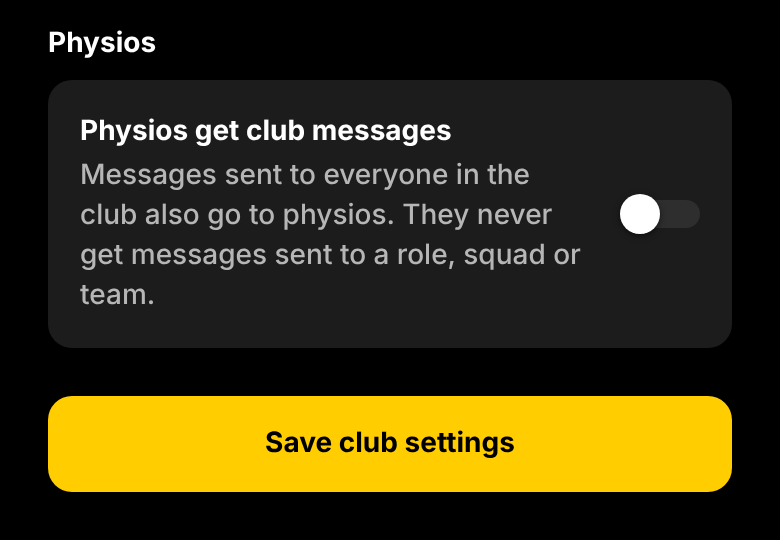
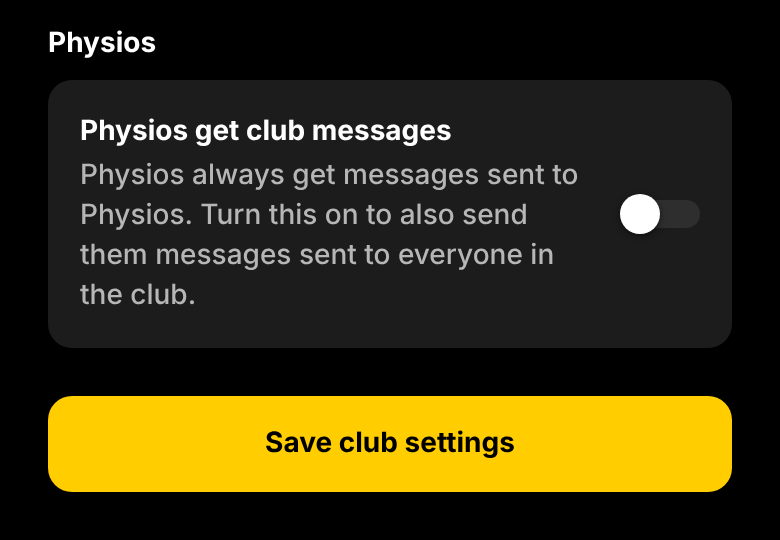
Physios get messages sent to the Physio role
Physios are a role, so admins can now message them as one. Messages to
the whole club still reach physios only when the Club settings switch
is on. Guests still get no messages.

Claude-Session: https://claude.ai/code/session_01Mh6TzPEn2NakBsFykKGtvu

Changed region(s): [[0.0923, 0.2963, 0.7385, 0.4148], [0.0923, 0.4444, 0.7385, 0.5037], [0.0923, 0.5333, 0.2462, 0.563]]

diff --git a/src/lib/messages.ts b/src/lib/messages.ts
@@ -43,25 +43,13 @@ export function useMessageGroups(teams: Team[]) {
 }
 
 /**
- * Guests never get messages. Physios get messages to the whole club only when
- * an admin turns that on. The database applies the same rules.
+ * Guests never get messages. Physios always get messages sent to the Physio
+ * role, and messages to the whole club when an admin turns that on. The
+ * database applies the same rules.
  */
 export function useGetsMessages() {
   const { profile } = useAuth();
-  const [physiosGetClubMessages, setPhysiosGetClubMessages] = useState(false);
-  const isPhysio = profile?.status === 'approved' && profile.role === 'physio';
-
-  useFocusEffect(
-    useCallback(() => {
-      if (!isPhysio) return;
-      supabase
-        .rpc('physios_get_club_messages')
-        .then(({ data }) => setPhysiosGetClubMessages(data === true));
-    }, [isPhysio]),
-  );
-
-  if (profile?.status !== 'approved' || profile.role === 'guest') return false;
-  return !isPhysio || physiosGetClubMessages;
+  return profile?.status === 'approved' && profile.role !== 'guest';
 }
 
 /** Admins, the committee, coaches and managers can send messages. */

diff --git a/src/app/admin/club.tsx b/src/app/admin/club.tsx
@@ -330,8 +330,8 @@ export default function ClubSettingsScreen() {
           <View style={styles.featureText}>
             <ThemedText type="smallBold">Physios get club messages</ThemedText>
             <ThemedText type="small" themeColor="textSecondary">
-              Messages sent to everyone in the club also go to physios. They never get messages
-              sent to a role, squad or team.
+              Physios always get messages sent to Physios. Turn this on to also send them
+              messages sent to everyone in the club.
             </ThemedText>
           </View>
           <Switch

diff --git a/src/app/messages/new.tsx b/src/app/messages/new.tsx
@@ -22,6 +22,7 @@ const messageableRoles: AppRole[] = [
   'coach',
   'manager',
   'committee',
+  'physio',
   'admin',
 ];
 

diff --git a/docs/user-guide.md b/docs/user-guide.md
@@ -49,7 +49,7 @@ What each role sees on its home screen:
 | Feature                                | Athlete |     Guardian    |    Coach     |  Manager   |   Committee   |     Physio    |  Guest  |     Admin     |
 | -------------------------------------- | :-----: | :-------------: | :----------: | :--------: | :-----------: | :-----------: | :-----: | :-----------: |
 | To-do list, calendar, squads and teams |    ✓    |        ✓        |      ✓       |     ✓      |       ✓       |       ✓       |    ✓    |       ✓       |
-| Read messages                          |    ✓    |        ✓        |      ✓       |     ✓      |       ✓       |   Club only*  |         |       ✓       |
+| Read messages                          |    ✓    |        ✓        |      ✓       |     ✓      |       ✓       |       ✓*      |         |       ✓       |
 | Send messages                          |         |                 |  Own groups  | Own groups |   Whole club  |               |         |     Anyone    |
 | Daily check-in                         |    ✓    |                 |              |            |               |               |         |               |
 | Check-ins of others                    |         |                 | Own athletes |            | Averages only | Averages only |         | Averages only |
@@ -64,7 +64,8 @@ What each role sees on its home screen:
 | Club name, colours, logo and features  |         |                 |              |            |               |               |         |       ✓       |
 | Administration                         |         |                 |              |            |               |               |         |       ✓       |
 
-\* Only when an admin turns on **Physios get club messages** in Club settings.
+\* Physios get messages sent to the Physio role. They get messages sent to everyone in the club only
+when an admin turns on **Physios get club messages** in Club settings.
 
 "Own groups" and "own athletes" mean the squads and teams you're listed in as a coach or manager.
 Club awards are voted on by the roles, squads and teams each award names, so not every award is
@@ -157,8 +158,8 @@ sender can see that you've read it.
 Who a message went to is shown under the sender's name, for example "To Mixed Open Squad" or
 "To Everyone in the club".
 
-Guests don't get messages. Physios get messages sent to everyone in the club only when an admin
-turns that on.
+Guests don't get messages. Physios get messages sent to the Physio role, and messages sent to
+everyone in the club only when an admin turns that on.
 
 <img src="user-guide/inbox.png" width="210" alt="Messages inbox">
 
@@ -501,9 +502,9 @@ Calendars an admin shares with the **Committee** appear only for committee membe
 ## 9. Physios and guests
 
 Physios and guests see the squads and teams and the club calendar. They don't vote in club awards,
-so their home screen has no **Awards** card. Guests don't get messages. Physios get messages sent to
-everyone in the club only when an admin turns on **Physios get club messages** in
-[Club settings](#club-settings); then their home screen shows a **Messages** card.
+so their home screen has no **Awards** card. Guests don't get messages. Physios have a **Messages**
+card and get messages an admin sends to the Physio role. They also get messages sent to everyone in
+the club when an admin turns on **Physios get club messages** in [Club settings](#club-settings).
 
 ### Physios
 
@@ -732,7 +733,7 @@ defaults (West Coast Thunder's name, logo and yellow-on-black colours).
   and its Administration pages are hidden. Nothing is deleted, so switching it back on brings
   everything back.
 - **Physios get club messages**: when on, messages sent to everyone in the club also go to
-  physios. They never get messages sent to a role, squad or team. It starts off.
+  physios. Physios always get messages sent to the Physio role. It starts off.
 
 Tap **Save club settings**. Members see the changes the next time they open the app. The app's
 icon, its name under the icon and the splash screen are part of the app build and don't change
@@ -758,7 +759,7 @@ once saved, only replaced or removed.
 | ----------------------- | --------------------------------------------------------------------------------------------------------------------------- |
 | Your profile and squads | You, the people in your squads and teams (names and positions only), and admins.                                            |
 | Date of birth and Working With Children Check | You and admins.                                                                                       |
-| Messages                | The people they were sent to, the sender, and admins. Guardians of athletes under 18 get a copy of every message sent to their athlete. Guests don't get messages; physios get whole-club messages only if an admin turns that on. |
+| Messages                | The people they were sent to, the sender, and admins. Guardians of athletes under 18 get a copy of every message sent to their athlete. Guests don't get messages; physios get messages sent to the Physio role, and whole-club messages only if an admin turns that on. |
 | Read receipts           | The sender and admins.                                                                                                      |
 | Daily check-in answers and notes | The athlete, their guardians and their coaches. The committee, physios and admins see only group averages, hidden below 3 check-ins. |
 | Injuries and documents  | The athlete, their guardians, their coaches, physios, the committee and admins. Managers don't see injuries.                |
